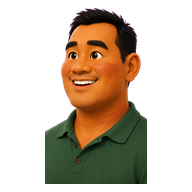
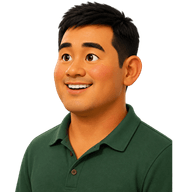
feat(rural-football): refresh returning-graduate protagonist

diff --git a/乡村足球赛/src/data/rural-squad.js b/乡村足球赛/src/data/rural-squad.js
@@ -26,7 +26,7 @@ const RURAL_MATCH_LINEUP_INDEXES = Object.freeze({
   blue: Object.freeze([10, 3, 11, 12, 9, 13, 8]),
 });
 const RURAL_HOME_LINEUP_INDEXES = Object.freeze({
-  red: Object.freeze([7, 0, 1, 2, 4, 5]),
+  red: Object.freeze([7, 0, 1, 2, 6, 5]),
   blue: Object.freeze([3, 10, 11, 12, 9, 8]),
 });
 

diff --git a/乡村足球赛/STATUS.md b/乡村足球赛/STATUS.md
@@ -9,9 +9,10 @@
 - 主队固定使用红色球衣、客队固定使用蓝色球衣；地区只改变队名与排名归属，不再用地区哈希随机换成深蓝、黄色或金色队服；
 - 荣耀榜第一次点击“我的省 / 市 / 县 / 乡镇”切换自己的范围，再次点击当前标签打开全国行政区级联浏览器；浏览其他地区只改变当前查询，不修改玩家家乡队；省、市、县榜行会裁掉共同上级前缀；
 - 右侧五个比赛按键增加低对比度单字提示“挑 / 传 / 抢 / 射 / 冲”，原图标、触摸热区和操作参数不变；
-- 返乡大学生调整为 30 岁主队核心，位于选队页主队第一张卡并固定显示在比赛 HUD；“小卖部账房”改为“小卖部老板”；
+- 返乡大学生调整为 30 岁主队核心，使用 Image2 重制本土化 Q 版透明头像，位于选队页主队第一张卡并固定显示在比赛 HUD；小卖部角色改为“小卖部老板”并保留在主队展示；
+- 新头像已按既有素材契约压缩：192×192 源头像约 15 KiB、81×77 比赛头部约 5 KiB、512×512 WebP 参考母版约 20 KiB；真实 Alpha、头部占框、水平中心和原骨架锚点检查通过；旧头像已备份到 `美术替换备份/2026-08-22-返乡大学生头像更新前/`；
 - 根治首页与真实比赛人物不一致：主客队分别使用互不重复的固定 7 人比赛名单，首页双方展示的 6 人均为对应真实名单子集；主队满足 2-3-1，客队满足 3-2-1；
-- `npm run release:check` 整链通过，主包约 3.20 MiB、资源分包约 8.25 MiB；微信版本 `1.0.2` 待最终上传；
+- `npm run release:check` 整链通过，主包约 3.16 MiB、资源分包约 8.24 MiB；微信版本 `1.0.2` 已上传为中间候选，含最终头像修正的 `1.0.3` 待上传；
 - `https://coaiz.com/rural-football/config/v1`、`https://coaiz.com/rural-rank/v1/health` 和 `wss://coaiz.com/rural-ws` 已部署并通过公网健康检查；服务器尚未配置微信 AppSecret，因此真实排行榜登录和好友鉴权保持失败关闭，未迁移数据库、未处理真实用户数据。
 
 ## 2026-08-22 乡村荣耀榜、简化选队与地域转发

diff --git a/乡村足球赛/docs/superpowers/specs/2026-08-22-leaderboard-scope-browser-and-home-kit-design.md b/乡村足球赛/docs/superpowers/specs/2026-08-22-leaderboard-scope-browser-and-home-kit-design.md
@@ -47,6 +47,6 @@
 ## 返乡大学生主角与阵容一致性补充
 
 - 返乡大学生设定为约 30 岁的主队核心，位于选队页主队第一张卡，并作为比赛 HUD 的固定主队代表头像。
-- “屠户”保留为有生活感的门将角色，但不再承担主角位置；“小卖部账房”改为符合真实个体经营语境的“小卖部老板”。
+- “屠户”保留为有生活感的门将角色，但不再承担主角位置；“小卖部账房”改为符合真实个体经营语境的“小卖部老板”，并保留在主队选队人物中。
 - 主客队各自使用固定、互不重复的 7 人比赛名单；选队页双方展示的 6 人必须全部包含在对应的真实比赛名单里。
 - 主队名单满足 2-3-1，客队名单满足 3-2-1；不得为了调换人物破坏门将、后卫、中场、前锋位置数量。
